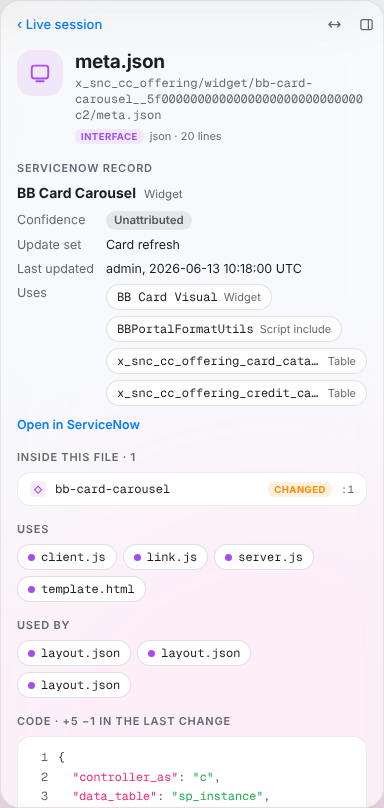
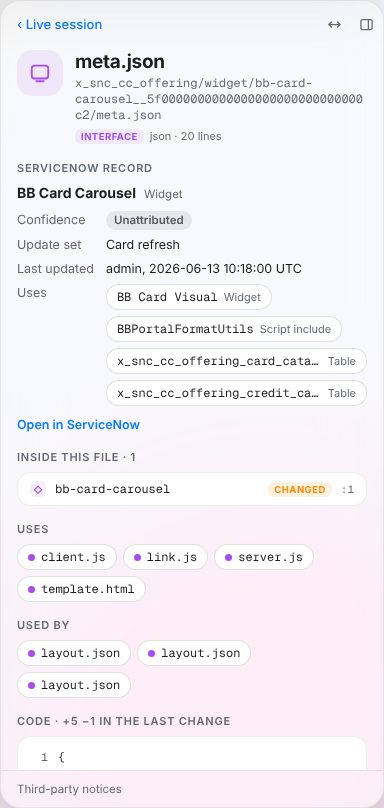
perf: keep the ServiceNow UI out of the main chunk
- The ServiceNow host loads from the timeline's lazy chunk instead of App.
- It adds its own badge, filter bar and notices footer to the page, so the
  toolbar, center and Live session carry no placeholders.
- The inspector loads the record card with a dynamic import, so its shared
  chunk stays off the main chunk's preload list.
- viewFilter has no initial value in the store.
- The notices link moves to a footer at the bottom of the inspector.

Main chunk: 82.26 kB gzip against 82.29 kB (main alone: 82.22 kB). What is
left is the Activity feed's filter hook.

Changed region(s): [[0.0625, 0.9592, 0.6875, 0.9901]]

diff --git a/ui/src/sn/SnHost.tsx b/ui/src/sn/SnHost.tsx
@@ -1,4 +1,4 @@
-import { useEffect, useMemo, useRef, useState } from 'react';
+import { useEffect, useLayoutEffect, useMemo, useRef, useState } from 'react';
 import { createPortal } from 'react-dom';
 import { classifyTool } from '@shared/tools.js';
 import type { AgentEvent } from '@shared/types.js';
@@ -9,8 +9,8 @@ import { activeCount, filtersUrl, readFilters, viewFilter, type Filters } from '
 
 /*
  * The ServiceNow parts of the page, for a `livemap sn` project only: the unattributed badge in the toolbar, the filter
- * bar over the views, and the diagnostics panel. Loaded lazily after the first hello for every live project; without
- * a ServiceNow mirror it renders only the third-party notices link.
+ * bar over the views, and the diagnostics panel. Loaded lazily (from the timeline's chunk) for every live project;
+ * without a ServiceNow mirror it renders only the third-party notices footer under the inspector.
  */
 
 /** The mirror's records are read again this long after the last change (a burst of saves reads them once). */
@@ -29,9 +29,21 @@ export function unknownTools(events: AgentEvent[]): [string, number][] {
   return [...counts].sort((a, b) => b[1] - a[1] || a[0].localeCompare(b[0]));
 }
 
-function Slot({ id, children }: { id: string; children: React.ReactNode }) {
-  const el = document.getElementById(id);
-  return el ? createPortal(children, el) : null;
+/**
+ * An element this module adds to the page, so the main chunk carries no placeholder for it: created when `on`,
+ * put in place by `place`, and removed again on unmount.
+ */
+function useAdded(tag: 'span' | 'div', id: string, on: boolean, place: (el: HTMLElement) => void): HTMLElement | null {
+  const [el, setEl] = useState<HTMLElement | null>(null);
+  useLayoutEffect(() => {
+    if (!on) return;
+    const e = document.createElement(tag);
+    e.id = id;
+    place(e);
+    setEl(e);
+    return () => { e.remove(); setEl(null); };
+  }, [on]);
+  return el;
 }
 
 function Select({ label, value, options, onChange }: { label: string; value?: string; options: [string, string][]; onChange: (v?: string) => void }) {
@@ -77,6 +89,11 @@ export default function SnHost() {
   const [filters, setFilters] = useState<Filters>(() => readFilters(window.location.search));
   const [diag, setDiag] = useState(false);
   const [ok, setOk] = useState(false);
+  // The badge sits in the toolbar before its flexible gap; the filter bar between the view tabs and the views.
+  const badgeEl = useAdded('span', 'sn-badge', ok, e => document.querySelector('.toolbar > .grow')?.before(e));
+  const barEl = useAdded('div', 'sn-filters', ok, e => document.querySelector('main.center > .c-head')?.after(e));
+  // The third-party notices link, as a footer under the inspector, in every live project (this module loads for all).
+  const noticesEl = useAdded('div', 'notices', true, e => document.querySelector('aside.insp')?.append(e));
 
   // Read the records once per project, and again after changes settle (a save can move a record or its update set).
   useEffect(() => {
@@ -117,14 +134,13 @@ export default function SnHost() {
     .sort((a, b) => b.lastAt - a.lastAt)
     .map(s => [s.id, `${agentName(s.agent)}: ${s.title || s.id}`]), [sessions]);
 
-  // The third-party notices link, in the Live session view of every live project (this module loads for all of them).
-  const notices = <Slot id="notices"><a className="notices" href="/THIRD_PARTY_NOTICES.md" target="_blank" rel="noopener noreferrer">Third-party notices</a></Slot>;
+  const notices = noticesEl && createPortal(<a className="notices" href="/THIRD_PARTY_NOTICES.md" target="_blank" rel="noopener noreferrer">Third-party notices</a>, noticesEl);
   if (!ok || !index) return notices;
   const n = activeCount(filters);
   return (
     <>
       {notices}
-      <Slot id="sn-badge">
+      {badgeEl && createPortal(
         <button
           type="button"
           className={`sn-badge${filters.conf === 'none' ? ' on' : ''}`}
@@ -133,9 +149,10 @@ export default function SnHost() {
           onClick={() => update(filters.conf === 'none' ? { ...filters, conf: undefined } : { ...filters, conf: 'none', who: undefined })}
         >
           <b>{unattributed.toLocaleString()}</b> unattributed
-        </button>
-      </Slot>
-      <Slot id="sn-filters">
+        </button>,
+        badgeEl,
+      )}
+      {barEl && createPortal(
         <div className="sn-bar" role="group" aria-label="Filters">
           <Select label="Scope" value={filters.scope} options={scopes} onChange={set('scope')} />
           <Select label="Update set" value={filters.set} options={sets} onChange={set('set')} />
@@ -148,8 +165,9 @@ export default function SnHost() {
             Unknown tools <b>{unknown.toLocaleString()}</b>
           </button>
           {diag && <Diagnostics onClose={() => setDiag(false)} />}
-        </div>
-      </Slot>
+        </div>,
+        barEl,
+      )}
     </>
   );
 }

diff --git a/ui/src/components/Timeline.tsx b/ui/src/components/Timeline.tsx
@@ -1,4 +1,4 @@
-import { useEffect, useLayoutEffect, useMemo, useRef, useState, type CSSProperties, type KeyboardEvent, type PointerEvent } from 'react';
+import { Suspense, lazy, useEffect, useLayoutEffect, useMemo, useRef, useState, type CSSProperties, type KeyboardEvent, type PointerEvent } from 'react';
 import clsx from 'clsx';
 import type { Ticks } from '@shared/history.js';
 import { liveGeneration, useStore } from '../store';
@@ -44,6 +44,10 @@ function bucketOf(t: Ticks, seq: number): number {
  * run separators and a draggable thumb, and the LIVE or REWOUND state. Dragging, the arrow keys, Home
  * and End rewind the whole UI; releasing at the right end or End returns to live.
  */
+// ServiceNow filters, badge, diagnostics and the notices link: their own chunk, loaded from this one (itself lazy,
+// right after first paint) so the main chunk carries none of it. A replay has no server to ask.
+const SnHost = lazy(() => import('../sn/SnHost'));
+
 export function Timeline() {
   const status = useStore(s => s.historyStatus);
   const rewound = useStore(s => s.rewound);
@@ -220,6 +224,8 @@ export function Timeline() {
 
   return (
     <div className={clsx('timeline', !status.enabled && 'off', past && 'past')} role="group" aria-label="Session timeline">
+      {/* Renders only portals (into the toolbar, the center and the inspector), never inside the timeline. */}
+      {!replay && import.meta.env.MODE !== 'export' && <Suspense fallback={null}><SnHost /></Suspense>}
       <button
         type="button"
         className="play"

diff --git a/ui/src/styles.css b/ui/src/styles.css
@@ -944,7 +944,6 @@
   .map-note { min-width:0; font-size:12.5px; line-height:16px; color:var(--ink2); animation:fin .45s var(--ease) both; }
   .zoomctl .zfit { width:40px; font-size:12px; font-weight:600; }
   /* ServiceNow (ui/src/sn): the unattributed badge, the filter bar, diagnostics and the inspector's record card. */
-  #sn-badge:empty, #sn-filters:empty { display:none; }
   .sn-badge { display:flex; align-items:center; gap:5px; height:28px; padding:0 10px; border-radius:999px; border:1px solid var(--hair2); background:var(--card); color:var(--ink2); font-size:12px; cursor:pointer; white-space:nowrap; }
   .sn-badge b { color:var(--orange); font-variant-numeric:tabular-nums; }
   .sn-badge.on { border-color:var(--orange); background:var(--orange-t); color:var(--ink); }
@@ -981,7 +980,8 @@
   .sn-uses .chip small { flex-shrink:0; color:var(--ink3); font:11px var(--sans); }
   .sn-none { margin-top:8px; font-size:12px; }
   .sn-open { display:inline-block; margin-top:10px; font-size:12.5px; font-weight:600; color:var(--blue); }
-  .notices { display:inline-block; margin-top:10px; font-size:12px; color:var(--ink3); }
+  #notices { flex-shrink:0; padding:7px 16px 9px; border-top:1px solid var(--hair); }
+  .notices { font-size:11.5px; color:var(--ink3); }
   /* Wraps instead of overflowing when the text is wider (other fonts) or the center is narrow. */
   .c-tools { margin-left:auto; display:flex; flex-wrap:wrap; justify-content:flex-end; align-items:center; gap:8px; min-width:0; max-width:100%; }
   .c-tools:empty { display:none; }

diff --git a/ui/src/components/FileDetail.tsx b/ui/src/components/FileDetail.tsx
@@ -1,4 +1,4 @@
-import { useEffect, useMemo, useReducer } from 'react';
+import { Suspense, lazy, useEffect, useMemo, useReducer } from 'react';
 import type { ChangeSummary, FileModel } from '@shared/types.js';
 import { summaryRequests, useStore } from '../store';
 import { LAYERS, layerOf } from '../layers';
@@ -12,7 +12,9 @@ import { KindBadge, LayerTile, layerVars } from './icons';
 import { MethodPill } from './MethodPill';
 import { authHeaders } from '../connection';
 import { askAbout } from './Ask';
-import { SnRecordCard } from '../sn/SnRecord';
+
+// The ServiceNow record card: its own chunk, loaded from this one, so its files never join the main chunk's preload list.
+const SnRecordCard = lazy(() => import('../sn/SnRecord').then(m => ({ default: m.SnRecordCard })));
 
 /* The inspector's file view. It only shows once a file is selected, so it loads after first paint (see Inspector). */
 
@@ -261,7 +263,7 @@ export function FileDetail({ file }: { file: FileModel }) {
         </div>
       </div>
 
-      <SnRecordCard path={file.path} />
+      <Suspense fallback={null}><SnRecordCard path={file.path} /></Suspense>
 
       <PlainEnglish path={file.path} />
 

diff --git a/ui/src/App.tsx b/ui/src/App.tsx
@@ -1,4 +1,4 @@
-import { Suspense, lazy, useEffect } from 'react';
+import { useEffect } from 'react';
 import clsx from 'clsx';
 import { isGated, useStore } from './store';
 import { Toolbar } from './components/Toolbar';
@@ -12,9 +12,6 @@ import { MotionRoot } from './motion';
 import { closePanel, useSlideOvers } from './panels';
 import { Dock } from './components/Dock';
 import { PanelHandle } from './components/PanelHandle';
-
-// ServiceNow filters, badge and diagnostics: loaded after the first hello, and only of use to `livemap sn` projects.
-const SnHost = lazy(() => import('./sn/SnHost'));
 
 export function App() {
   const panel = useStore(s => s.panel);
@@ -44,7 +41,6 @@ export function App() {
         {/* Inside .app: a fixed .app is its own stacking context, so the slide-over panels sit above this. */}
         <div className={clsx('scrim only-narrow-scrim', panel && 'open')} onClick={closePanel} aria-hidden="true" />
       </Dock>
-      {root && import.meta.env.MODE !== 'export' && <Suspense fallback={null}><SnHost /></Suspense>}
       <Toast />
       <PaletteHost />
       <Gate />

diff --git a/ui/src/store.ts b/ui/src/store.ts
@@ -170,9 +170,9 @@ export interface StoreState {
   tableFocus: { key: string; seq: number } | null;
   /**
    * What the views show while filters are on (the ServiceNow filter bar sets it with `useStore.setState`): files and
-   * changes that pass `path` and `change`, agent events that pass `event`. Null shows everything.
+   * changes that pass `path` and `change`, agent events that pass `event`. Unset or null shows everything.
    */
-  viewFilter: ViewFilter | null;
+  viewFilter?: ViewFilter | null;
   routeTrace: { id: string; seq: number } | null;
   /** The ⌘K palette is open. */
   paletteOpen: boolean;
@@ -256,7 +256,6 @@ const initial = {
   history: [] as string[],
   mapFocus: null,
   tableFocus: null,
-  viewFilter: null,
   routeTrace: null,
   paletteOpen: false,
   historyStatus: NO_HISTORY,

diff --git a/ui/src/components/Activity.tsx b/ui/src/components/Activity.tsx
@@ -118,9 +118,9 @@ export function Activity({ active = true }: { active?: boolean }) {
   const changes = useStore(s => s.changes);
   const sessions = useStore(s => s.sessions);
   const liveAfterId = useStore(s => s.liveAfterId);
-  const vf = useStore(s => s.viewFilter);
+  const f = useStore(s => s.viewFilter);
 
-  const items = useMemo(() => (vf ? buildFeed(events.filter(vf.event), changes.filter(vf.change)) : buildFeed(events, changes)), [events, changes, vf]);
+  const items = useMemo(() => buildFeed(f ? events.filter(f.event) : events, f ? changes.filter(f.change) : changes), [events, changes, f]);
   const [limit, setLimit] = useState(FEED_PAGE);
   const hidden = Math.max(0, items.length - limit);
   // Group the whole feed so group keys stay anchored to each run's own first item, then trim.

diff --git a/ui/src/map/MapView.tsx b/ui/src/map/MapView.tsx
@@ -542,7 +542,7 @@ function Canvas({ run, tools }: { run: ElkRun; tools: HTMLElement | null }) {
 /** The Map tab: every code file as a card in its folder's region, live, at three levels of detail. */
 export function MapView({ run = workerRun, tools = null }: { run?: ElkRun; tools?: HTMLElement | null }) {
   const files = useVisibleFiles();
-  const filtered = useStore(s => s.viewFilter !== null);
+  const filtered = useStore(s => !!s.viewFilter);
   const count = useMemo(() => codeFileCount(files), [files]);
   if (!count) {
     return (

diff --git a/ui/src/components/CenterTabs.tsx b/ui/src/components/CenterTabs.tsx
@@ -159,8 +159,6 @@ export function CenterTabs() {
         </div>
         {tab === 'map' && <div className="c-tools" ref={setTools} />}
       </div>
-      {/* The ServiceNow filter bar (ui/src/sn), for `livemap sn` projects. */}
-      <div id="sn-filters" />
       <div className="c-body" role="tabpanel" id="center-panel" aria-labelledby={`tab-${tab}`}>
         <RewoundBanner />
         {/* Activity stays mounted so its scroll position and expanded rows survive a tab switch. */}

diff --git a/ui/src/components/Toolbar.tsx b/ui/src/components/Toolbar.tsx
@@ -207,8 +207,6 @@ export function Toolbar() {
       <span className="sep" aria-hidden="true" />
       <ProjectChip />
       <StatusChip />
-      {/* The ServiceNow unattributed badge (ui/src/sn), for `livemap sn` projects. */}
-      <span id="sn-badge" />
       <AgentChips />
       <span className="grow"><NowLine /></span>
       <SearchButton />

diff --git a/ui/src/components/LiveSession.tsx b/ui/src/components/LiveSession.tsx
@@ -127,7 +127,6 @@ export function LiveSession() {
         </div>
       )}
       <div className="muted" style={{ fontSize: 12 }}>Select any file to see what is inside it, what it connects to, and why it changed.</div>
-      <span id="notices" />
     </>
   );
 }

diff --git a/CHANGELOG.md b/CHANGELOG.md
@@ -14,5 +14,5 @@ LiveMap is not published yet. This file lists changes that affect data or settin
 - **`livemap sn` works with real nexus.** It no longer stops with `raw.normalize is not a function` while pulling: reference fields that nexus returns as `{link, value}` objects are read as their value.
 - **`livemap mcp-proxy`** lets LiveMap see the tool calls of a desktop MCP client. The client's nexus entry launches the proxy, which forwards everything unchanged and reports each call, with secrets redacted, to `livemap sn`. Instance changes are matched to calls by record, update set, run window and time, with confidence `exact`, `likely` or `ambiguous`.
 - **SkyForge plugin.** `livemap sn install-plugin` copies LiveMap's plugin into `~/.skyforge/plugin/` after a yes at a prompt (`--uninstall` removes it). It reports SkyForge's nexus tool calls, prompts and assistant text to `livemap sn`. `livemap sn backfill-sessions --since DATE` sends past SkyForge sessions the same way.
-- **ServiceNow inspector, filters and diagnostics.** In a `livemap sn` project the inspector shows each record's update set, last update, what it uses, the latest change's confidence and why, and an Open in ServiceNow link. A filter bar (scope, update set, session, agent or human, confidence) narrows the Map, Schema, Activity and diffs, and is kept in the page address. The toolbar counts unattributed changes, and Unknown tools lists tools LiveMap could not classify. See `docs/servicenow.md`.
+- **ServiceNow inspector, filters and diagnostics.** In a `livemap sn` project the inspector shows each record's update set, last update, what it uses, the latest change's confidence and why, and an Open in ServiceNow link. A filter bar (scope, update set, session, agent or human, confidence) narrows the Map, Schema, Activity and diffs, and is kept in the page address. The toolbar counts unattributed changes, and Unknown tools lists tools LiveMap could not classify. See `docs/servicenow.md`. A Third-party notices link sits at the bottom of the inspector.
 - **CI** runs the unit tests on Windows (Node 22) as well as Ubuntu and macOS.
